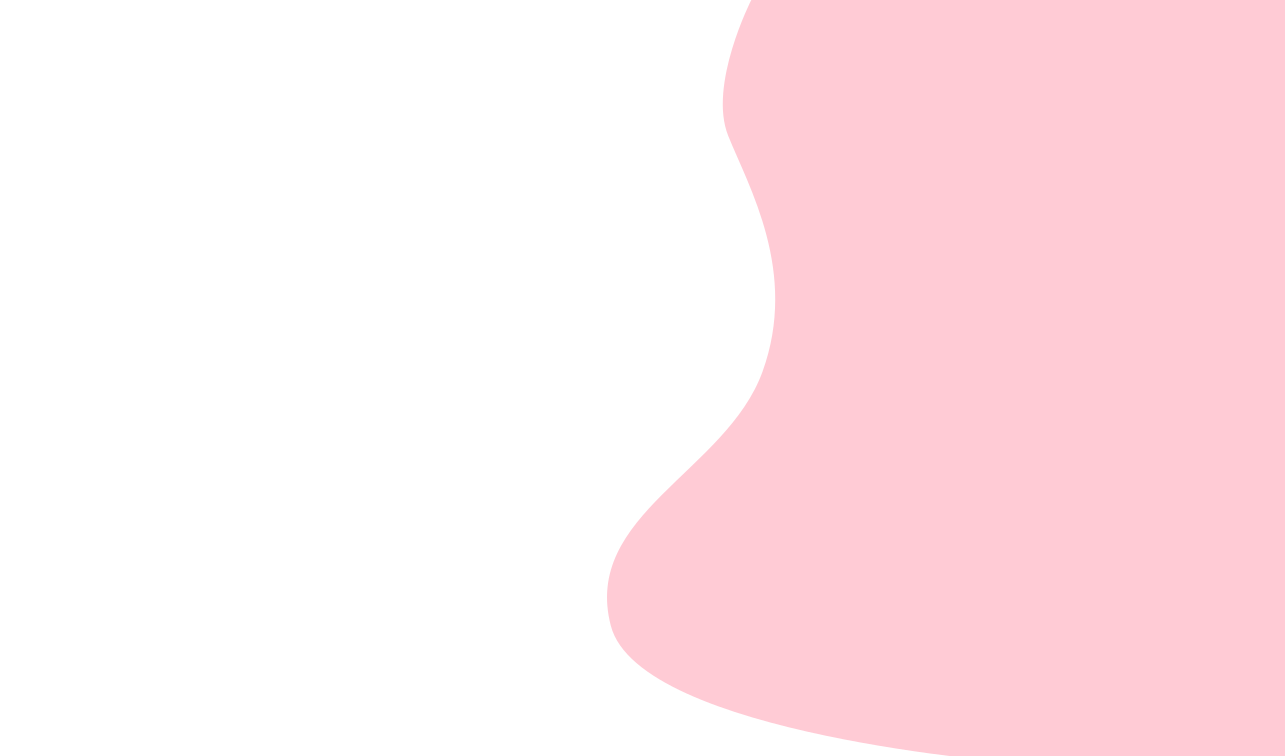
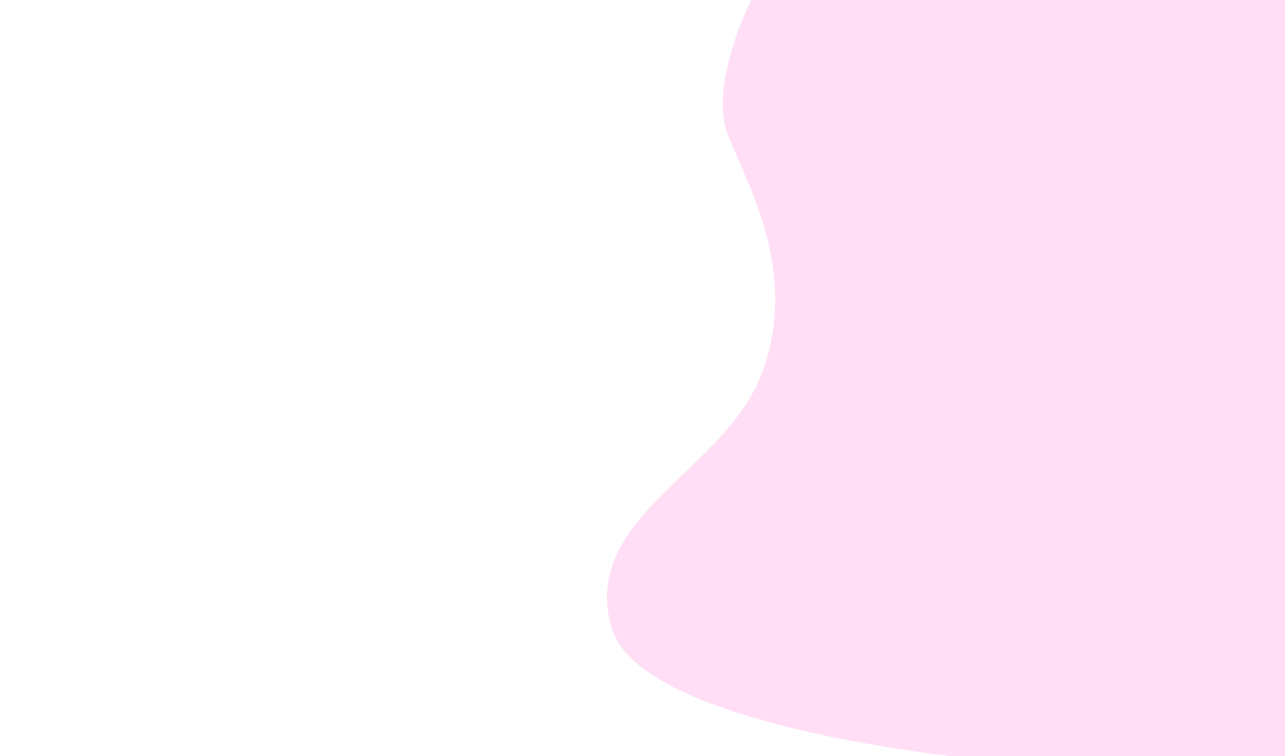
change background images

diff --git a/style.css b/style.css
@@ -179,12 +179,12 @@ h6 {
 }
 
 ul {
-  margin: 0px;
-  padding: 0px;
+  /*margin: 0px;*/
+  /*padding: 0px;*/
 }
 
 li {
-  list-style: none
+  /*list-style: none*/
 }
 
 p {

diff --git a/scope.md b/scope.md
@@ -5,8 +5,12 @@ img_src: assets/img/art/s3.png
 permalink: /scope
 ---
 
+{% include_relative manual/_includes/_scope.qmd %}
 
-The purpose of the ODAP is to facilitate biomedical research to advance understanding of disease caused by emerging or re-emerging pathogens (new infectious agents, and new, re-emerging or therapy-resistant forms of existing infectious agents) or other exposures (new or unexplained poisoning, or exposure to harmful energy sources such as electromagnetic radiation) of public health interest. Research within the ODAP is strictly limited to this purpose.
+## Examples
+
+{% include_relative manual/_includes/_scope_examples.qmd %}
+
 
 ### The Platform
 Our UKRI-supported platform based at the University of Edinburgh is a trusted research environment (TRE) running on a high-performance computing space that holds data securely allowing academic and public health researchers access following a ‘five safes’ (http://www.fivesafes.org) research application and governance process.  
